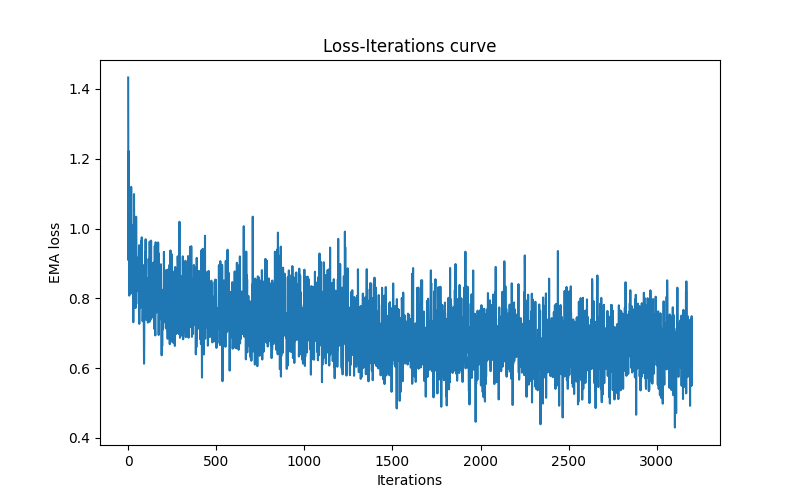
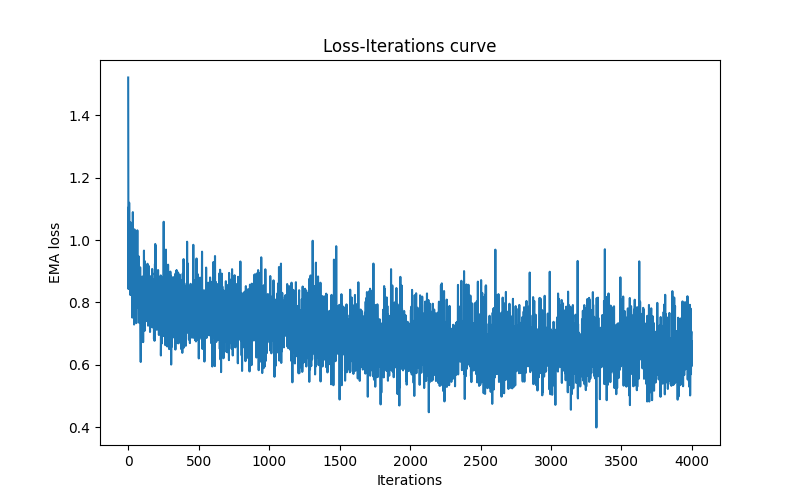
Running Ref code for DDPM on 2d swissroll data

diff --git a/diffusion/ddpm/main.py b/diffusion/ddpm/main.py
@@ -14,7 +14,6 @@ from fire import Fire
 from tqdm import tqdm
 from pydantic import BaseModel
 
-
 from statistical_distance.layers import SinkhornDistance
 
 # not sure if this is necessary
@@ -154,9 +153,9 @@ def main(
         hidden_dim_model: int = 128,
         num_layers: int = 2,
         batch_size: int = 128,
-        n_epochs: int = 400,
+        n_epochs: int = 500,
         sample_size: int = 512,
-        steps_between_sampling: int = 500,
+        steps_between_sampling: int = 50,
         seed: int = 42,
 ):
     device = torch.device("cuda")
